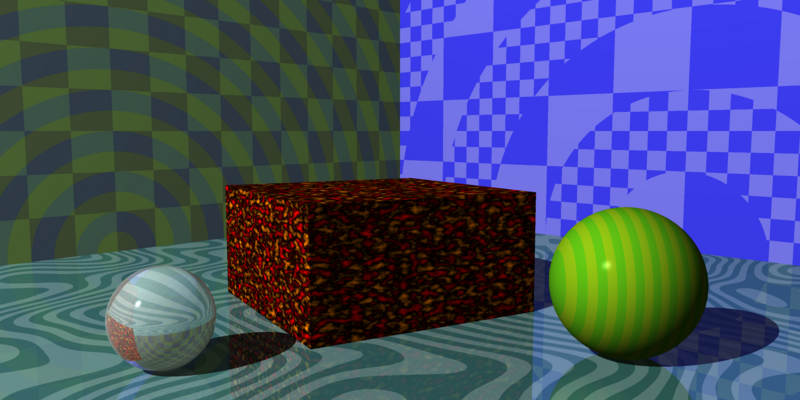
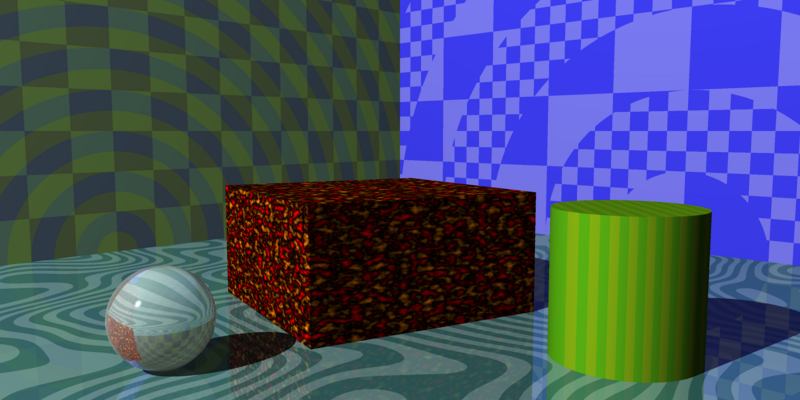
cylinder end

Changed region(s): [[0.6562, 0.72, 1.0, 1.0], [0.6875, 0.48, 0.9062, 0.69]]

diff --git a/src/shape/cylinder.rs b/src/shape/cylinder.rs
@@ -4,36 +4,83 @@ use crate::tuple::Tuple;
 use crate::tuple::EPSILON;
 
 pub fn local_intersect<'a>(cylinder: &'a Shape, ray: &Ray) -> Vec<Intersection<'a>> {
-    let a = ray.direction.x.powi(2) + ray.direction.z.powi(2);
-    if a.abs() < EPSILON {
-        return vec![];
-    }
-    let b = 2.0 * ray.origin.x * ray.direction.x + 2.0 * ray.origin.z * ray.direction.z;
-    let c = ray.origin.x.powi(2) + ray.origin.z.powi(2) - 1.0;
-    let discriminant = b.powi(2) - 4.0 * a * c;
-    if discriminant < 0.0 {
-        return vec![];
-    }
-    let mut t0 = (-b - discriminant.sqrt()) / (2.0 * a);
-    let mut t1 = (-b + discriminant.sqrt()) / (2.0 * a);
-    if t0 > t1 {
-        std::mem::swap(&mut t0, &mut t1);
+    let mut xs: Vec<Intersection> = vec![];
+    let a = ray.direction.x * ray.direction.x + ray.direction.z * ray.direction.z;
+    if a.abs() > EPSILON {
+        let b = 2.0 * ray.origin.x * ray.direction.x + 2.0 * ray.origin.z * ray.direction.z;
+        let c = ray.origin.x * ray.origin.x + ray.origin.z * ray.origin.z - 1.0;
+        let discriminant = b * b - 4.0 * a * c;
+        if discriminant < 0.0 {
+            return vec![];
+        }
+        let mut t0 = (-b - discriminant.sqrt()) / (2.0 * a);
+        let mut t1 = (-b + discriminant.sqrt()) / (2.0 * a);
+        if t0 > t1 {
+            std::mem::swap(&mut t0, &mut t1);
+        }
+
+        let ShapeType::Cylinder(minimum, maximum, _closed) = cylinder.shape_type else { panic!("ShapeType is not Cylinder") };
+        let y0 = ray.origin.y + t0 * ray.direction.y;
+        if minimum < y0 && y0 < maximum {
+            xs.push(Intersection::new(t0, cylinder));
+        }
+        let y1 = ray.origin.y + t1 * ray.direction.y;
+        if minimum < y1 && y1 < maximum {
+            xs.push(Intersection::new(t1, cylinder));
+        }
     }
 
-    let ShapeType::Cylinder(minimum, maximum, _closed) = cylinder.shape_type else { panic!("ShapeType is not Cylinder") };
+    intersect_caps(cylinder, ray).iter().for_each(|i| xs.push(i.clone()));
+
+    xs
+}
+
+// Check if the intersection at `t` is within the radius of the cylinder
+// at the end caps
+fn check_cap(ray: &Ray, t: f64) -> bool {
+    let x = ray.origin.x + t * ray.direction.x;
+    let z = ray.origin.z + t * ray.direction.z;
+    (x * x + z * z) <= 1.0
+}
+
+fn intersect_caps<'a>(cylinder: &'a Shape, ray: &Ray) -> Vec<Intersection<'a>> {
+    let ShapeType::Cylinder(minimum, maximum, closed) = cylinder.shape_type else { panic!("ShapeType is not Cylinder") };
     let mut xs: Vec<Intersection> = vec![];
-    let y0 = ray.origin.y + t0 * ray.direction.y;
-    if minimum < y0 && y0 < maximum {
-        xs.push(Intersection::new(t0, cylinder));
+
+    // Caps only matter if the cylinder is closed, and might be
+    // intersected by the ray
+    if !closed || ray.direction.y.abs() < EPSILON {
+        return xs;
     }
-    let y1 = ray.origin.y + t1 * ray.direction.y;
-    if minimum < y1 && y1 < maximum {
-        xs.push(Intersection::new(t1, cylinder));
+
+    // Check for an intersection with the lower end cap by intersecting
+    // the ray with the plane at y = minimum
+    let t = (minimum - ray.origin.y) / ray.direction.y;
+    if check_cap(ray, t) {
+        xs.push(Intersection::new(t, cylinder));
+    }
+
+    // Check for an intersection with the upper end cap by intersecting
+    // the ray with the plane at y = maximum
+    let t = (maximum - ray.origin.y) / ray.direction.y;
+    if check_cap(ray, t) {
+        xs.push(Intersection::new(t, cylinder));
     }
 
     xs
 }
 
-pub fn local_normal_at(_cylinder: &Shape, local_point: &Tuple) -> Tuple {
-    Tuple::vector(local_point.x, 0.0, local_point.z)
+pub fn local_normal_at(cylinder: &Shape, local_point: &Tuple) -> Tuple {
+    let ShapeType::Cylinder(minimum, maximum, _closed) = cylinder.shape_type else { panic!("ShapeType is not Cylinder") };
+
+    // Compute the square of the distance from the y-axis
+    let dist = local_point.x * local_point.x + local_point.z * local_point.z;
+
+    if dist < 1.0 && local_point.y >= maximum - EPSILON {
+        Tuple::vector(0.0, 1.0, 0.0)
+    } else if dist < 1.0 && local_point.y <= minimum + EPSILON {
+        Tuple::vector(0.0, -1.0, 0.0)
+    } else {
+        Tuple::vector(local_point.x, 0.0, local_point.z)
+    }
 }

diff --git a/src/main.rs b/src/main.rs
@@ -160,7 +160,12 @@ fn create_shape(scene_object: &SceneObject) -> Shape {
         "plane" => Shape::plane(),
         "cube" => Shape::cube(),
         "glass_sphere" => Shape::glass_sphere(),
-        "cylinder" => Shape::cylinder(),
+        "cylinder" => {
+            let minimum = scene_object.minimum.unwrap_or(-f64::INFINITY);
+            let maximum = scene_object.maximum.unwrap_or(f64::INFINITY);
+            let closed = scene_object.closed.unwrap_or(false);
+            Shape::cylinder(minimum, maximum, closed)
+        },
         _ => Shape::sphere(),
     };
     s.transform = create_transforms(&scene_object.transforms.clone().unwrap_or(vec![]));

diff --git a/src/shape.rs b/src/shape.rs
@@ -68,9 +68,9 @@ impl Shape {
         }
     }
 
-    pub fn cylinder() -> Shape {
+    pub fn cylinder(minimum: f64, maximum: f64, closed: bool) -> Shape {
         Shape {
-            shape_type: ShapeType::Cylinder(-f64::INFINITY, f64::INFINITY, false),
+            shape_type: ShapeType::Cylinder(minimum, maximum, closed),
             center: Tuple::point(0.0, 0.0, 0.0),
             transform: Matrix::identity(4),
             material: Material::default(),

diff --git a/src/scene.rs b/src/scene.rs
@@ -33,6 +33,9 @@ pub struct SceneObject {
     pub object_type: String,
     pub transforms: Option<Vec<Transform>>,
     pub material: Material,
+    pub minimum: Option<f64>,
+    pub maximum: Option<f64>,
+    pub closed: Option<bool>,
 }
 
 #[derive(Deserialize, Clone)]
